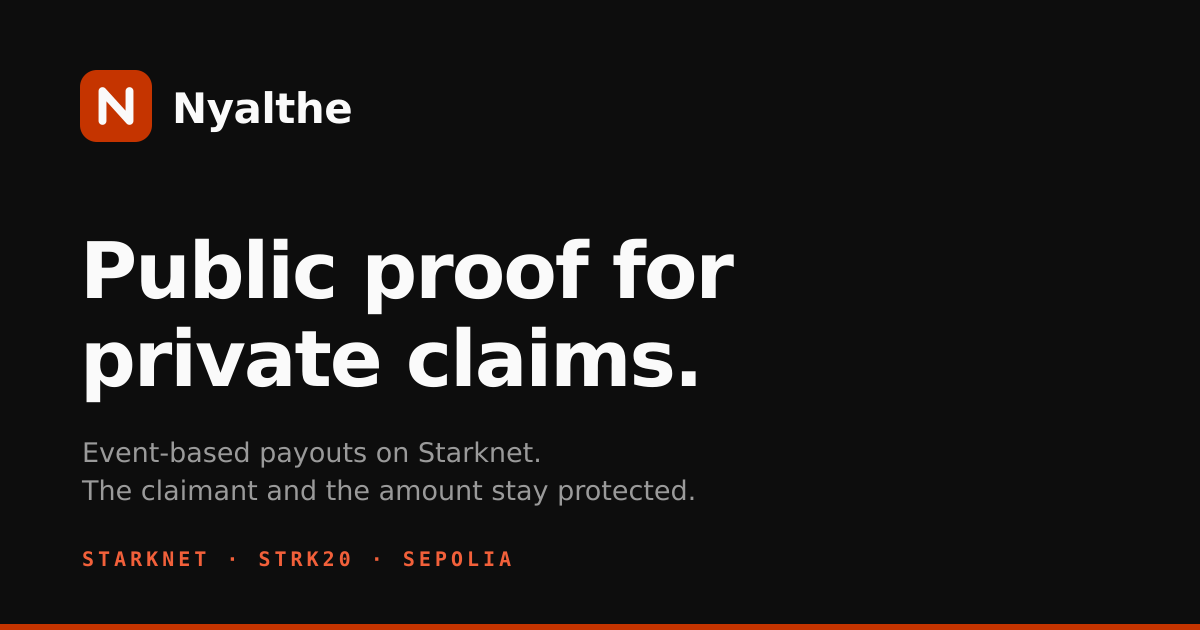
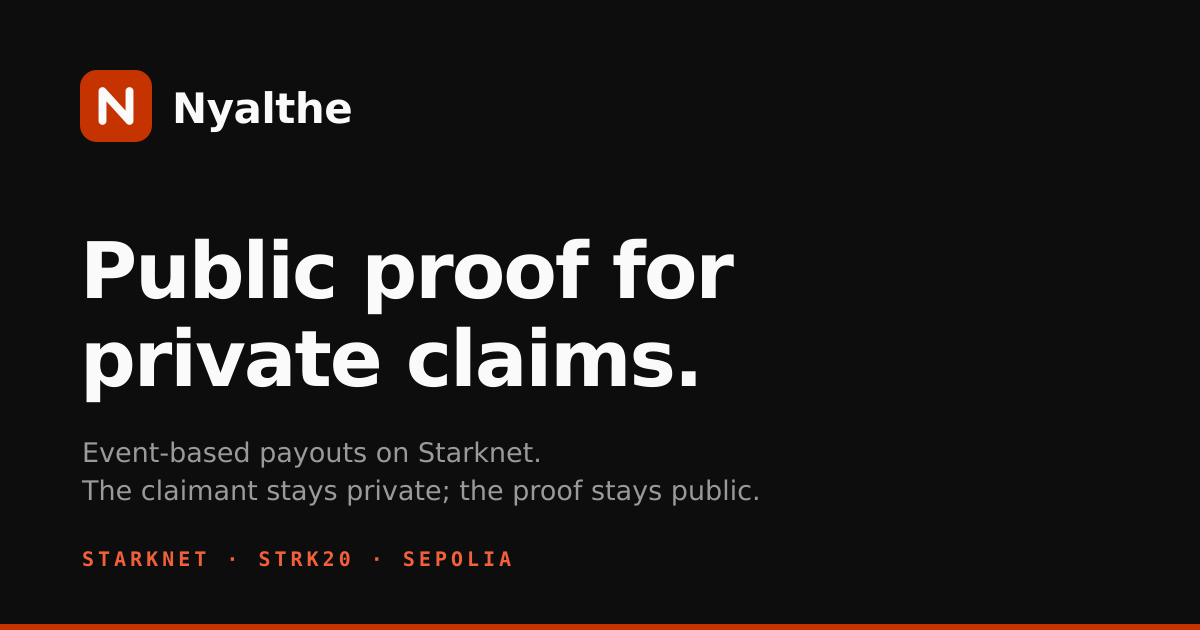
Tighten privacy copy to claimant protected

Changed region(s): [[0.2158, 0.754, 0.6167, 0.8143]]

diff --git a/src/app/components/site/PrivateByDesign.tsx b/src/app/components/site/PrivateByDesign.tsx
@@ -2,7 +2,7 @@ import styles from "./PrivateByDesign.module.css";
 
 const PROTECTED = [
   "The claimant's identity and receiving address",
-  "The payout amount credited to the claimant",
+  "The link between the claimant and their payout",
   "Movement of funds inside the privacy pool",
 ];
 
@@ -22,8 +22,7 @@ export default function PrivateByDesign() {
           <p className={styles.intro}>
             Nyalthe does not hide the parts that make a claim trustworthy. The policy, the
             event that triggers it, and the settlement logic are all verifiable on Starknet.
-            What stays private is the part that should: who receives the payout, and how
-            much they receive.
+            What stays private is the part that should: who receives the payout.
           </p>
         </div>
 
@@ -51,7 +50,7 @@ export default function PrivateByDesign() {
 
         <p className={styles.note}>
           One honest edge: depositing into and withdrawing from the pool are visible
-          on-chain. Nyalthe protects the claimant and the amount, not the fact that a
+          on-chain. Nyalthe protects the claimant and their receipt, not the fact that a
           privacy pool is being used.
         </p>
       </div>

diff --git a/src/app/components/site/ProofModel.tsx b/src/app/components/site/ProofModel.tsx
@@ -9,7 +9,7 @@ const PUBLIC_ROWS = [
 
 const PROTECTED_ROWS = [
   { k: "Claimant", v: "•••••••••", shield: true },
-  { k: "Payout amount", v: "••• STRK", shield: true },
+  { k: "Receiving address", v: "•••••••••", shield: true },
   { k: "Settlement", v: "Open note in pool", shield: false },
   { k: "Proof held by", v: "Claimant", shield: false },
 ];
@@ -24,7 +24,7 @@ export default function ProofModel() {
           <p className={styles.intro}>
             Every claim produces two kinds of proof. Anyone can verify that a policy was
             funded and settled correctly on Starknet. Only the claimant can prove they
-            received the payout, and neither their identity nor the amount is exposed.
+            received the payout, without revealing who they are.
           </p>
         </div>
 

diff --git a/src/app/components/site/Hero.tsx b/src/app/components/site/Hero.tsx
@@ -19,7 +19,7 @@ export default function Hero() {
         <h1 className={styles.title}>Public proof for private claims.</h1>
         <p className={styles.sub}>
           Nyalthe settles event-based payouts on Starknet while keeping the claimant
-          and the amount protected.
+          protected.
         </p>
         <div className={styles.actions}>
           <Link href="/app" className={styles.primary}>

diff --git a/src/app/components/site/OnChainEvidence.tsx b/src/app/components/site/OnChainEvidence.tsx
@@ -33,7 +33,7 @@ const STEPS = [
     name: "Settle privately",
[1 lines of base64/hex data omitted]
     block: "13880350",
-    note: "Routed through STRK20. An open note is deposited, so the claimant and amount stay protected.",
+    note: "Routed through STRK20. An open note is deposited, so the claimant stays protected.",
     settle: true,
   },
 ];

diff --git a/src/app/layout.tsx b/src/app/layout.tsx
@@ -24,7 +24,7 @@ const siteUrl =
     : 'http://localhost:3000')
 
 const description =
-  'Nyalthe settles event-based payouts on Starknet while keeping the claimant and amount protected.'
+  'Nyalthe settles event-based payouts on Starknet while keeping the claimant protected.'
 
 export const metadata: Metadata = {
   metadataBase: new URL(siteUrl),

diff --git a/src/app/components/site/HowItWorks.tsx b/src/app/components/site/HowItWorks.tsx
@@ -28,7 +28,7 @@ const STEPS = [
     title: "Settle",
     img: "/img/step-settle.jpg",
     alt: "Smiling children in a community",
-    text: "The payout settles privately into an open note. The claimant and amount stay protected.",
+    text: "The payout settles privately into an open note, so the claimant stays protected.",
   },
 ];
 
